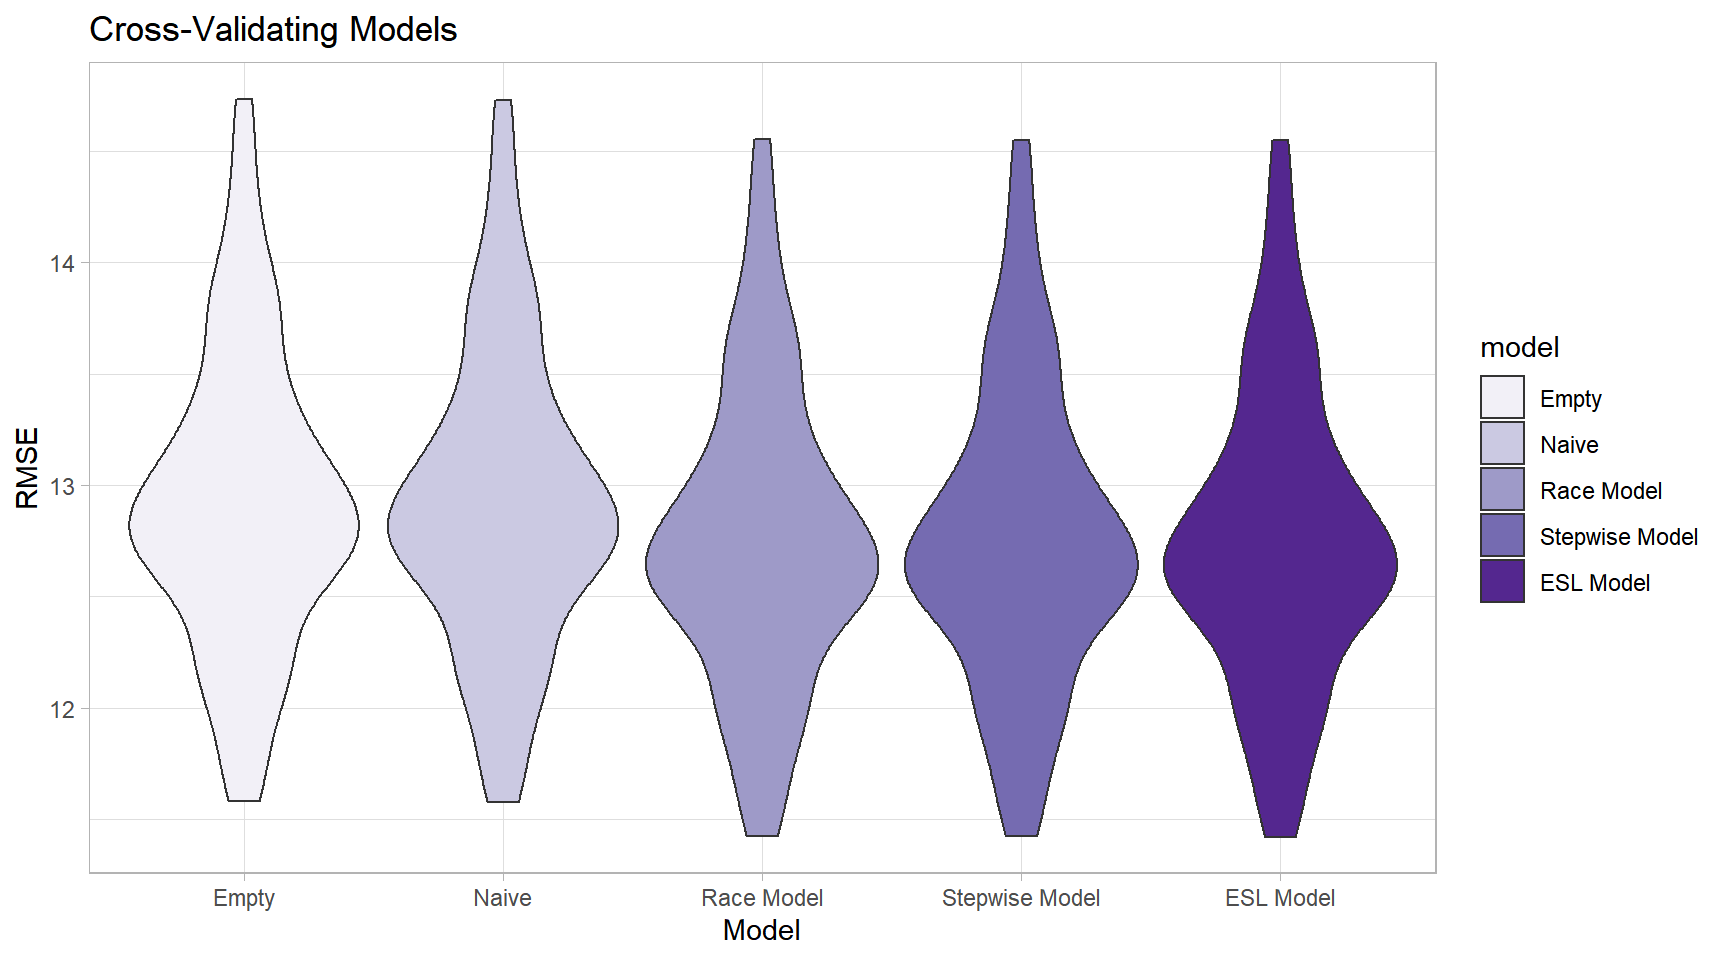
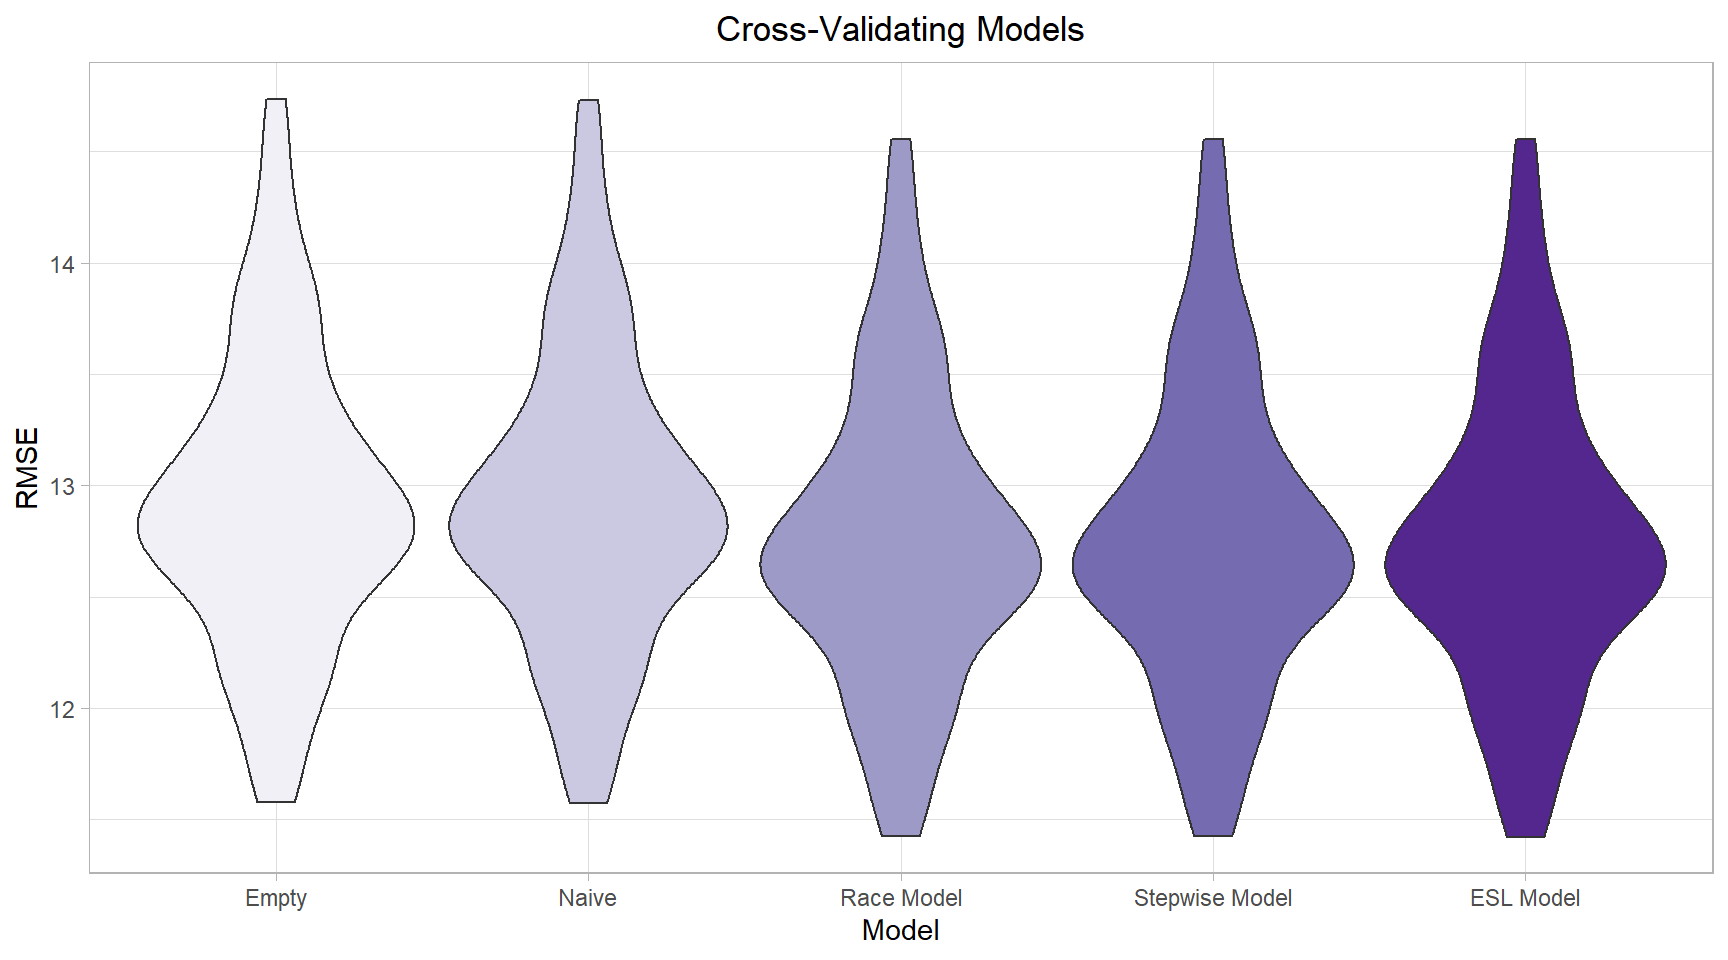
changes to model building

diff --git a/model_building.html b/model_building.html
@@ -521,7 +521,7 @@ gee_stepper_o(full_fit, formula(full_fit)) ## customized function to automatical
 <p>To summarize, we will consider the following models to predict census tract-level eviction rates:</p>
 <p>Two hypothesized models:</p>
 <ol style="list-style-type: decimal">
-<li>A hypothesized model based primarily on percent ESL speakers [Equation 2, above]</li>
+<li><p>A hypothesized model based primarily on percent ESL speakers [Equation 2, above]</p></li>
 <li><p>A hypothesized model based primarily on independent effects of race/ethnicity percentages [Equation 3, above]</p></li>
 <li><p>A model selected via a GEE-specific forward stepwise selection process</p></li>
 </ol>
@@ -657,7 +657,9 @@ model_data_cv %&gt;%
   labs(x = &quot;Model&quot;,
        y = &quot;RMSE&quot;, 
        title = &quot;Cross-Validating Models&quot;) +
-  scale_fill_brewer(type = &#39;seq&#39;, palette = &#39;Purples&#39;)</code></pre>
+  scale_fill_brewer(type = &#39;seq&#39;, palette = &#39;Purples&#39;) +
+  theme(legend.position = &#39;none&#39;,
+        plot.title = element_text(hjust = 0.5))</code></pre>
 <p><img src="model_building_files/figure-html/cv-1.png" width="864" /></p>
 <p>As we can see, our empty and naive models are clearly inferior in terms of their prediction abilities to our other hypothesized and selection-based models.</p>
 <p>This is the only clear-cut difference, as the latter three models - our two hypothesized models, and our stepwise model - are very similar in terms of their prediction capabilities.</p>
